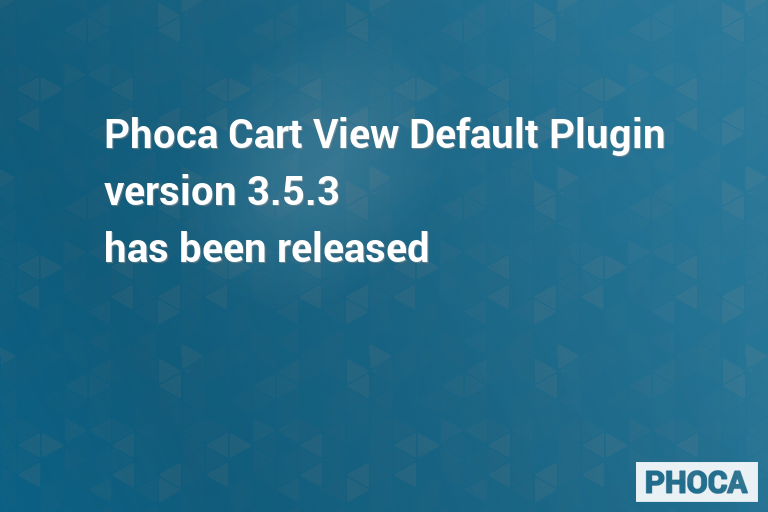
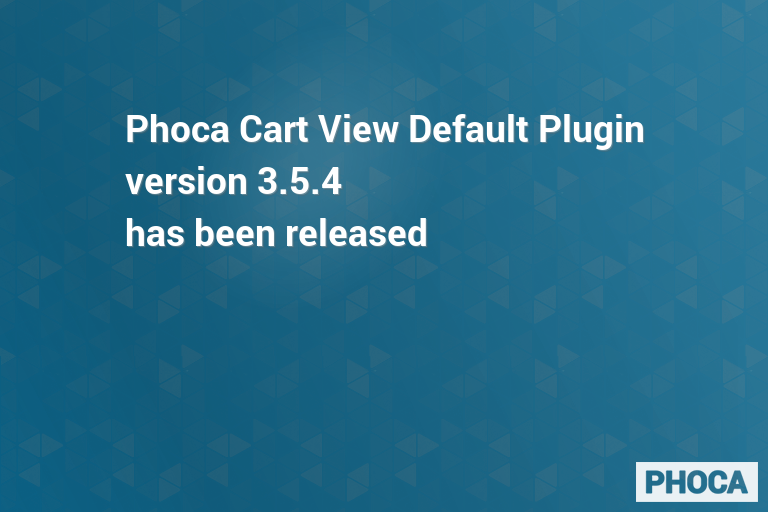
3.5.4
3.5.4

Changed region(s): [[0.125, 0.2188, 0.875, 0.5312]]

diff --git a/README.md b/README.md
@@ -56,7 +56,7 @@ Phoca Cart View - Default Plugin - plugin view method for Phoca Cart component. 
 
 ## Version
 
-3.5.3
+3.5.4
 
 
 
